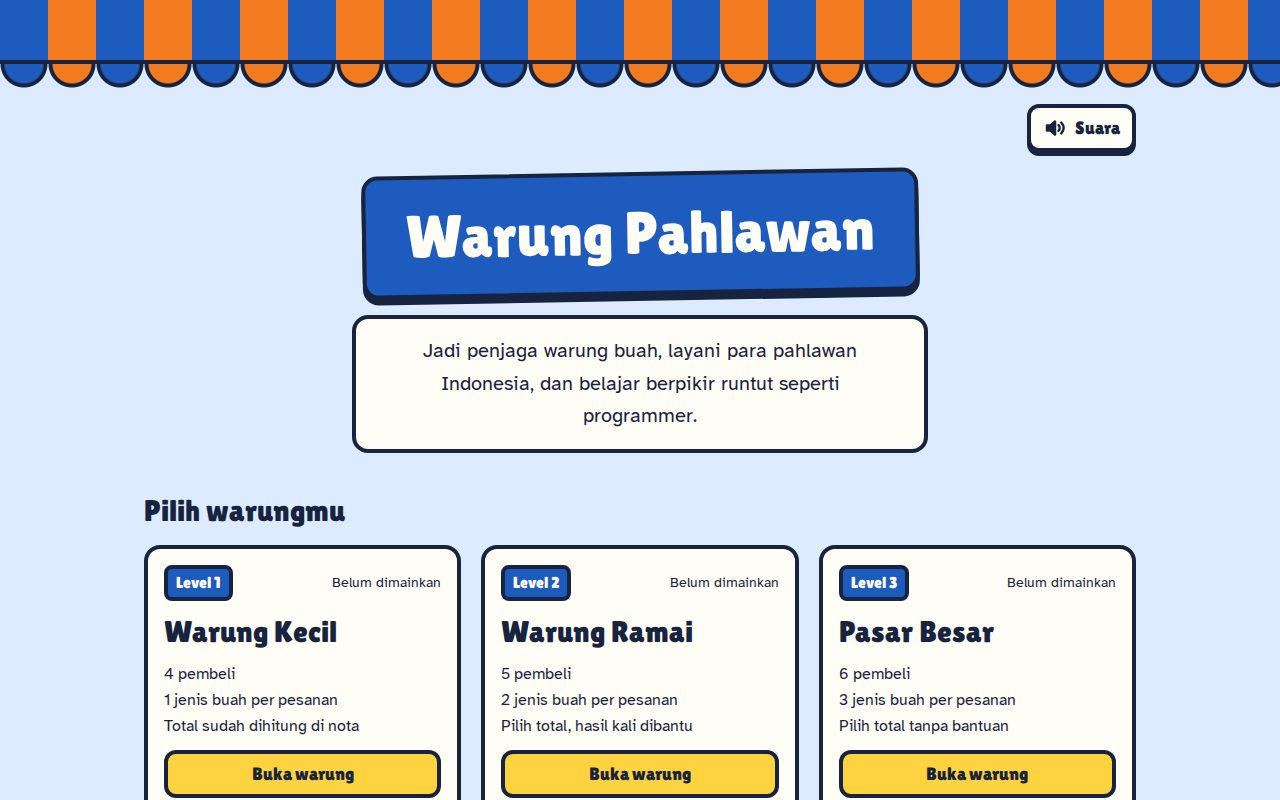
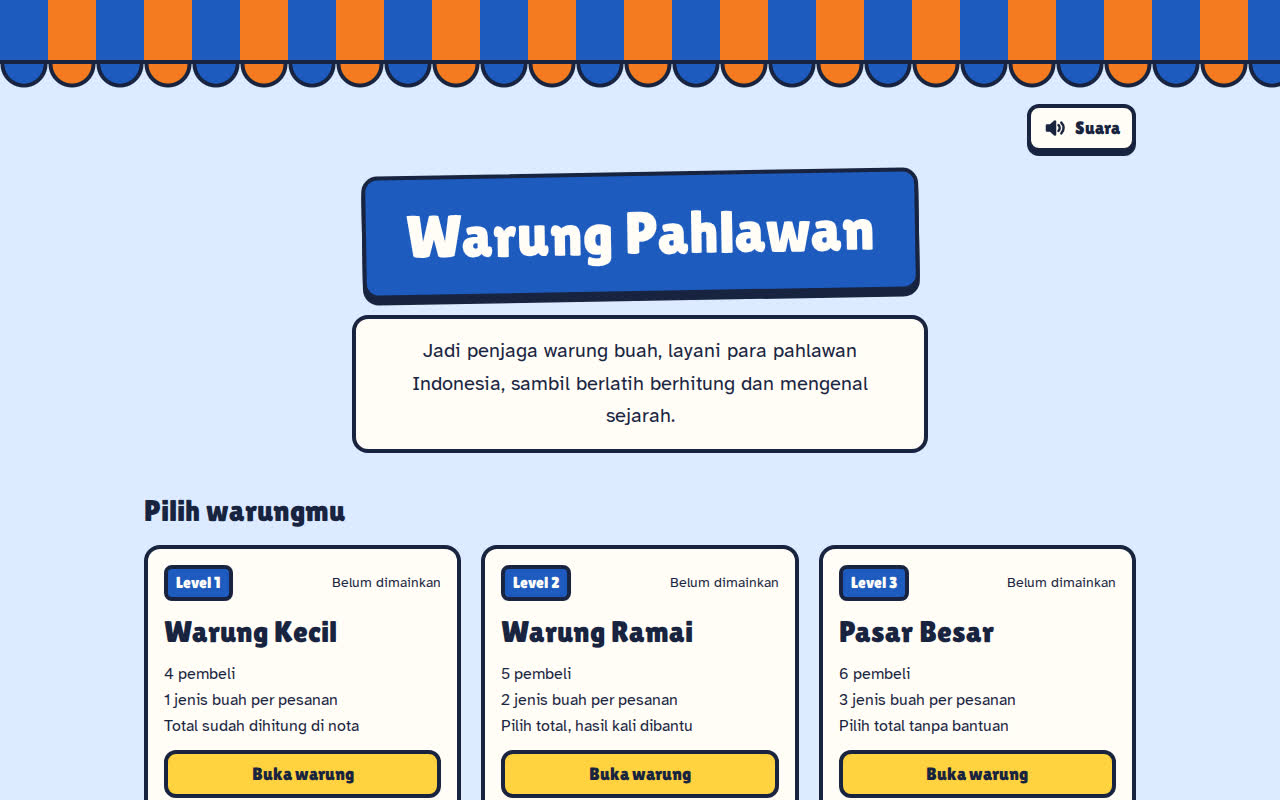
docs: drop the coding framing from AGENTS.md and README
Claude-Session: https://claude.ai/code/session_01WJLRAfgUrHcrXw3ahpWnnf

diff --git a/AGENTS.md b/AGENTS.md
@@ -5,17 +5,17 @@ Dokumen ini adalah acuan untuk setiap AI Agent yang mengerjakan proyek ini. Baca
 - Disusun: 5 Oktober 2026, setelah garis start lomba (09.30 WIB)
 - Lomba: M-ONE Telkomsel Coding Competition 2026, Kategori Umum
 - Tema: Innovating Education Through Technology
-- Subtema: Web Education for Kids (untuk anak SD), coding for kids
+- Subtema: Web Education for Kids (untuk anak SD)
 - Batas pengumpulan: 15 Oktober 2026, 15.30 WIB
 
 ## 1. Tujuan
 
-Warung Pahlawan adalah game web untuk anak SD. Anak menjadi penjaga warung buah, dan pembelinya adalah tokoh sejarah Indonesia. Lewat melayani pembeli, anak berlatih berpikir runtut seperti programmer (logika dan berhitung) sambil mengenal tokoh sejarah.
+Warung Pahlawan adalah game web untuk anak SD. Anak menjadi penjaga warung buah, dan pembelinya adalah tokoh sejarah Indonesia. Sambil melayani pembeli, anak berlatih berhitung, menghitung kembalian, dan bekerja teliti langkah demi langkah, sekaligus mengenal tokoh sejarah.
 
 Tantangan pendidikan yang dijawab:
 
-1. Konsep dasar coding (urutan, perulangan, percabangan, variabel) terasa abstrak bagi anak SD. Game ini menaruhnya dalam kegiatan yang sudah mereka kenal: jual beli di warung.
-2. Latihan berhitung uang dan kembalian sering berupa soal di kertas. Di sini anak mempraktikkannya langsung.
+1. Latihan berhitung (menjumlah dan mengalikan) sering berupa soal di kertas. Di sini anak mempraktikkannya dalam kegiatan yang sudah mereka kenal: jual beli di warung.
+2. Menghitung uang dan kembalian jarang dilatih langsung. Di sini anak menyusun kembalian sendiri dari laci uang.
 3. Tokoh sejarah biasanya dihafal. Di sini tokohnya datang sendiri dan bercerita singkat.
 
 ## 2. Pengguna
@@ -26,7 +26,7 @@ Tantangan pendidikan yang dijawab:
 
 ## 3. Alur game
 
-Satu pembeli dilayani dalam empat langkah yang urutannya tetap. Urutan ini ditampilkan ke anak sebagai "urutan langkah" (algoritma), dengan penanda langkah mana yang sedang dikerjakan.
+Satu pembeli dilayani dalam empat langkah yang urutannya tetap. Urutan ini ditampilkan ke anak sebagai urutan langkah, dengan penanda langkah mana yang sedang dikerjakan.
 
 1. **Sapa.** Pembeli datang dan menampilkan satu fun fact tentang dirinya. Anak menekan tombol untuk mulai melayani.
 2. **Ambil buah.** Pembeli menampilkan pesanan berupa gambar buah dan angka. Anak mengambil buah dari keranjang ke kantong belanja, bisa mengeluarkannya lagi, lalu membungkus pesanan. Kalau isi kantong tidak sama dengan pesanan, game memberi tahu buah mana yang kurang atau lebih.
@@ -35,16 +35,16 @@ Satu pembeli dilayani dalam empat langkah yang urutannya tetap. Urutan ini ditam
 
 Setelah semua pembeli dalam satu level dilayani, layar hasil menampilkan skor, bintang, dan daftar tokoh yang tadi dilayani beserta fun fact-nya.
 
-### Hubungan dengan konsep coding
+### Yang dilatih
 
-Beranda menjelaskan hubungan ini dengan bahasa anak.
+Beranda menampilkannya sebagai bagian "Yang kamu latih", dengan ikon kecil dan bahasa anak (teksnya di `src/data/guide.js`).
 
-| Konsep | Wujudnya di game |
+| Yang dilatih | Wujudnya di game |
 | --- | --- |
-| Urutan (sequence) | Empat langkah harus dikerjakan berurutan |
-| Perulangan (loop) | "Ambil apel" diulang sebanyak angka di pesanan |
-| Percabangan (if/else) | Jika uang pas, tidak ada kembalian; jika lebih, hitung kembalian |
-| Variabel | Total dan kembalian berubah untuk tiap pembeli |
+| Berhitung | Menjumlah dan mengalikan harga buah di langkah Hitung |
+| Uang rupiah | Menghitung dan menyusun kembalian dari laci uang |
+| Teliti dan runtut | Empat langkah melayani dikerjakan berurutan, pesanan dicocokkan dengan kantong |
+| Kenal pahlawan | Tiap tokoh pembeli bercerita singkat (fun fact) |
 
 ### Level
 

diff --git a/README.md b/README.md
@@ -1,6 +1,6 @@
 # Warung Pahlawan
 
-Game web untuk anak SD. Anak menjadi penjaga warung buah, dan pembelinya adalah tokoh sejarah Indonesia. Sambil melayani pembeli, anak berlatih berpikir runtut seperti programmer (urutan, perulangan, percabangan, variabel), berhitung uang dan kembalian, serta mengenal para pahlawan.
+Game web untuk anak SD. Anak menjadi penjaga warung buah, dan pembelinya adalah tokoh sejarah Indonesia. Sambil melayani pembeli, anak berlatih berhitung, menghitung kembalian, dan bekerja teliti langkah demi langkah, serta mengenal para pahlawan.
 
 Dibuat untuk M-ONE Telkomsel Coding Competition 2026, Kategori Umum, tema "Innovating Education Through Technology", subtema Web Education for Kids.
 
@@ -48,7 +48,7 @@ Dibuat untuk M-ONE Telkomsel Coding Competition 2026, Kategori Umum, tema "Innov
   - Berkas suara (15 berkas MP3, 112 kB) baru dimuat setelah sentuhan pertama anak, bukan saat halaman dibuka. Kalau berkas belum siap atau gagal dimuat, bunyi buatan Web Audio dipakai sebagai cadangan.
   - Tombol Suara ada di beranda dan layar main. Suara berhenti saat tab tersembunyi, dan setiap bunyi selalu disertai umpan balik di layar.
   - Semua bunyi bisa didengarkan di halaman tersembunyi `/?sfx`.
-- **Beranda** menjelaskan cara main dan hubungan game dengan konsep coding dalam bahasa anak.
+- **Beranda** menjelaskan cara main dan apa yang dilatih (berhitung, uang rupiah, teliti dan runtut, kenal pahlawan) dalam bahasa anak.
 - **Bisa dipakai dengan sentuhan, mouse, dan keyboard:**
   - Umpan balik selalu berupa teks dan diumumkan untuk pembaca layar.
   - Target sentuh minimal 48 px.
